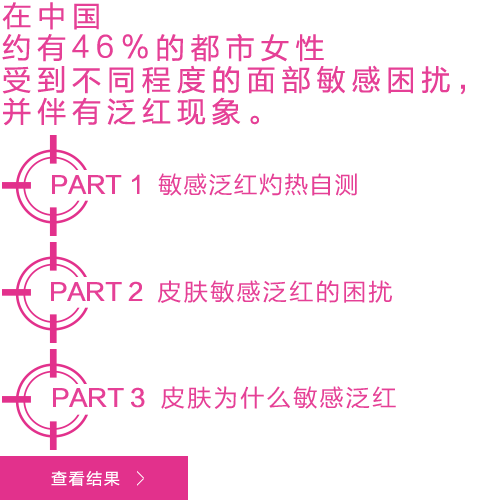
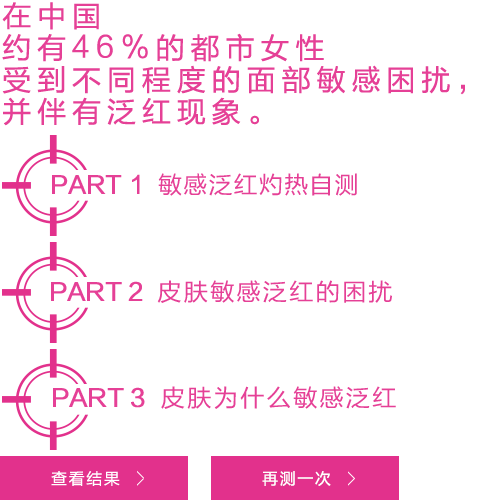
update

Changed region(s): [[0.4375, 0.9, 0.8438, 1.0]]

diff --git a/css/style.css b/css/style.css
@@ -69,6 +69,12 @@ a{text-decoration:none}
     .newsletter_popup img {margin-top:50px;}
     .newsletter_popup_close {cursor:pointer;background: url(../img/news_letter_close.png) no-repeat;width:38px;height:39px;position: absolute;top:-21px;right:-21px;}
 
+    #mobilenewsletter label.error {position: absolute;right:20px;top:135px;color:#f69f8c;font-size:30px;}
+    #MailInputWin{display:none;background:url(../imgMobile/maildialog.png);width:590px;height:382px;}
+    #mobilemailinput{ width: 480px; margin-top: 170px; margin-left: 55px; height: 65px; font-size: 32px;}
+    #backbtn{background:url(../imgMobile/backbtn.png) no-repeat;width:202px;height:65px;border:none;margin-top:34px;margin-left:76px;cursor:pointer;}
+    #okbtn{font-size:0;background:url(../imgMobile/okbtn.png) no-repeat;width:202px;height:65px;border:none;margin-top:34px;margin-left:30px;cursor:pointer;}
+
 /* intro */
 .intro{border-top:#fdeaf2 solid 1px;background: url(../img/introbg.png) repeat-x;height:122px; padding: 24px 0 0}
 .intro .column{width: 926px;}
@@ -134,10 +140,11 @@ a{text-decoration:none}
     .repair_imgtit{background:url('../img/repair_imgtit.png') no-repeat;position: absolute;}
     .repair_summary{width: 480px;height:130px;left:50%;top:30px;margin:0 0 0 -410px;background-position: 0 0;}
     .repair_pt1tit{width: 400px;height:102px;left:50%;top:212px;margin:0 0 0 -456px;background-position: 0 -135px;}
-    .repair_pt2tit{width: 400px;height:102px;left:50%;top:640px;margin:0 0 0 -456px;background-position: 0 -242px;}
-    .repair_pt3tit{width: 400px;height:102px;left:50%;top:1114px;margin:0 0 0 -456px;background-position: 0 -349px;}
+    .repair_pt2tit{width: 400px;height:102px;left:50%;top:740px;margin:0 0 0 -456px;background-position: 0 -242px;}
+    .repair_pt3tit{width: 400px;height:102px;left:50%;top:1214px;margin:0 0 0 -456px;background-position: 0 -349px;}
     /*pt1*/
     .repair_btn{font-size:0;cursor:pointer;width: 188px;height: 44px;top:534px;left:50%;margin-left: -94px;background-position: 0 -456px;border: none;overflow: hidden;line-height: 5000em;display: block}
+    .repair_btn.again {background-position:-211px -456px;}
     .repair_imgpt1{background:url('../img/repair_imgpt1.png') no-repeat;position: absolute;}
     .repair_pt1txt{width: 600px;height: 84px;top:296px;left:50%;margin-left: -456px;background-position:-8px 0;}
     .checkdiv{width: 912px;height: 120px;position: absolute;left:50%;margin-left:-456px;top:395px;}
@@ -154,20 +161,23 @@ a{text-decoration:none}
     .check_5 .checktxt{background-position: 0 -238px;height:34px;margin-top:-8px;}
     /*.check_6{top:88px;left:495px;}*/
     .check_6 .checktxt{background-position: 0 -275px;}
-    .repair_next{position:absolute;-webkit-animation: opacity1 1.5s infinite alternate;-moz-animation: opacity1 1.5s infinite alternate;-ms-animation: opacity1 1.5s infinite alternate;-o-animation: opacity1 1.5s infinite alternate;animation: opacity1 1.5s infinite alternate;width: 67px;height: 67px;left:50%;top: 600px;margin-left: -33px ;background:url(../img/knowledge_img2.png) no-repeat;background-position: -453px -504px}
+    .repair_next{position:absolute;-webkit-animation: opacity1 1.5s infinite alternate;-moz-animation: opacity1 1.5s infinite alternate;-ms-animation: opacity1 1.5s infinite alternate;-o-animation: opacity1 1.5s infinite alternate;animation: opacity1 1.5s infinite alternate;width: 67px;height: 67px;left:50%;top:650px;margin-left: -33px ;background:url(../img/knowledge_img2.png) no-repeat;background-position: -453px -504px}
+    .repair_answer {width:814px;height:113px;display:none;position: absolute;top:525px;left:50%;margin-left:-411px;background:url(../img/repair_imgpt4.png) no-repeat;}
+    .repair_answer div {display:none;}
+    .repair_answer2 {background-position: 0 -106px;}
     /*pt2*/
-    .repair_hua2{width: 160px;height: 200px;background: url(../img/repair_hua2.jpg) no-repeat;position: absolute;left:50%;top:760px;margin-left:-550px;}
+    .repair_hua2{width: 160px;height: 200px;background: url(../img/repair_hua2.jpg) no-repeat;position: absolute;left:50%;top:860px;margin-left:-550px;}
     .repair_imgpt2{background: url(../img/repair_imgpt2.png) no-repeat;position: absolute;}
-    .repair_user1{width: 300px;height:250px;left:50%;top:760px;margin:0 0 0 -484px;background-position: 0 0;}
-    .repair_user2{width: 300px;height:250px;left:50%;top:692px;margin:0 0 0 -258px;background-position: 0 -250px;}
-    .repair_user3{width: 300px;height:250px;left:50%;top:765px;margin:0 0 0 -45px;background-position: 0 -500px;}
-    .repair_user4{width: 300px;height:250px;left:50%;top:711px;margin:0 0 0 186px;background-position: 0 -750px;}
+    .repair_user1{width: 300px;height:250px;left:50%;top:860px;margin:0 0 0 -484px;background-position: 0 0;}
+    .repair_user2{width: 300px;height:250px;left:50%;top:792px;margin:0 0 0 -258px;background-position: 0 -250px;}
+    .repair_user3{width: 300px;height:250px;left:50%;top:865px;margin:0 0 0 -45px;background-position: 0 -500px;}
+    .repair_user4{width: 300px;height:250px;left:50%;top:811px;margin:0 0 0 186px;background-position: 0 -750px;}
     /*pt3*/
     .repair_imgpt3{background: url(../img/repair_imgpt3.png) no-repeat;position: absolute;}
-    .repair_specialist{width: 190px;height:245px;left:50%;top:1040px;margin:0 0 0 0;background-position: 0 0;}
-    .repair_demo{width: 260px;height:250px;left:50%;top:1030px;margin:0 0 0 190px;background-position: top right;}
-    .repair_threecause{width: 450px;height:240px;left:50%;top:1300px;margin:0 0 0 40px;background-position: 0 -250px;}
-    .repair_twocause{width: 400px;height:186px;left:50%;top:1306px;margin:0 0 0 -408px;background-position: 0 -508px;}
+    .repair_specialist{width: 190px;height:245px;left:50%;top:1140px;margin:0 0 0 0;background-position: 0 0;}
+    .repair_demo{width: 260px;height:250px;left:50%;top:1130px;margin:0 0 0 190px;background-position: top right;}
+    .repair_threecause{width: 450px;height:240px;left:50%;top:1400px;margin:0 0 0 40px;background-position: 0 -250px;}
+    .repair_twocause{width: 400px;height:186px;left:50%;top:1406px;margin:0 0 0 -408px;background-position: 0 -508px;}
 
 /* Repair Used
 ================================================================================================= */
@@ -426,7 +436,8 @@ a{text-decoration:none}
     .repair_summary{background:url('../imgMobile/repair/repair_summary.png') no-repeat 0 0;background-size: 100% 100%;width: 580px;height: 164px;top:35px;margin-left:-285px}
     .repair_pt1tit{top:230px;margin-left:-285px;background:url('../imgMobile/repair/repair_pt1tit.png') no-repeat 0 0;background-size: 100% 100%;width: 530px;height: 130px;}
     .repair_pt1txt{top:386px;margin-left:-285px;background:url('../imgMobile/repair/repair_pt1txt.png') no-repeat 0 0;background-size: 100% 100%;width: 551px;height: 118px;}
-    .repair_btn{width: 574px;height: 98px;top:976px;margin-left:-287px;background:url('../imgMobile/repair/repair_btn.png') no-repeat 0 0;background-size: 100% 100%;}
+    .repair_btn{width: 574px;height: 98px;top:976px;margin-left:-287px;background:url('../imgMobile/repair/repair_btn.png') no-repeat 0 0;background-size: 574px 196px;}
+    .repair_btn.again {background-position:0 -98px}
     .checkdiv{overflow:hidden;padding:58px 0 0;width: 635px;height: 374px;top:515px;margin-left:-317px;background:url('../imgMobile/repair/checkdiv.png') no-repeat 0 0;background-size: 100% 100%;}
     .check_item{padding-left:134px;height: 115px;margin-top: 10px}
     .check_item .checker {margin-top:10px;}
@@ -435,6 +446,10 @@ a{text-decoration:none}
     .arrow_tiem{width: 80px;height: 80px;position: absolute;top: 162px;cursor: pointer;}
     .arrow_p{left:10px;background:url('../imgMobile/repair/arrow_p.png') no-repeat 0 0;background-size: 100% 100%;}
     .arrow_n{right:10px;background:url('../imgMobile/repair/arrow_n.png') no-repeat 0 0;background-size: 100% 100%;}
+
+    .repair_answer {background:#fdf2eb;font-size:30px;padding:20px 30px;width:520px;height:auto;margin-left:-300px;line-height:150%;}
+    .repair_answer div {display:block;}
+    .repair_answer .score {color:#e54096;font-weight:bold;}
     /*pt2*/
     .repair_pt2tit{width:580px;height:135px;top:1140px;margin-left:-285px;background:url('../imgMobile/repair/repair_pt2tit.png') no-repeat 0 0;background-size: 100% 100%;}
     .repair_imgpt2{margin-left:-220px;box-shadow:5px 13px 30px -10px #555}

diff --git a/js/app.js b/js/app.js
@@ -91,7 +91,7 @@ $(document).ready(function(){
     }
 
 
-    if(!isTouch)
+    if(!isTouch || isIpad)
     {
         skrollr.init({
             smoothScrollingDuration: 600,
@@ -106,8 +106,8 @@ $(document).ready(function(){
             'closeEffect'	: 'fade',
             'openSpeed'      : 500,
             'closeSpeed'     : 500,
-            width: 640,
-            height: 360,
+            width: 800,
+            height: 450,
             scrolling : 'no',
             autoSize:true,
             preload   : true,
@@ -128,7 +128,7 @@ $(document).ready(function(){
         //$('.fadeEle').css({opacity:1});
     }
 
-    if(isTouch)
+    if(isTouch && !isIpad)
     {
         $('.fadeEle').waypoint(function() {
             $(this).animate({opacity:1});
@@ -152,7 +152,32 @@ $(document).ready(function(){
                 score += 10;
             }
         });
-        //alert(score);
+        if(isTouch && !isIpad)
+        {
+            if($('.checkdiv').css('display') == 'none')
+            {
+                $('.checkdiv').fadeIn();
+                $('.repair_answer').fadeOut();
+                $('.repair_btn').removeClass('again');
+                return;
+            }
+            $('.checkdiv').fadeOut();
+            $('.repair_btn').addClass('again');
+        }
+        else
+        {
+            $('.repair_btn').addClass('again').animate({top:651});
+            $('.repair_next').animate({top:700});
+            $('.repair_answer').fadeOut();
+        }
+        if(score <= 30)
+        {
+            $('.repair_answer1').fadeIn();
+        }
+        else
+        {
+            $('.repair_answer2').fadeIn();
+        }
     });
 
 

diff --git a/css/jquery.fancybox.css b/css/jquery.fancybox.css
@@ -39,13 +39,13 @@
 }
 
 .fancybox-opened .fancybox-skin {
-	-webkit-box-shadow: 0 10px 25px rgba(0, 0, 0, 0.5);
-	   -moz-box-shadow: 0 10px 25px rgba(0, 0, 0, 0.5);
-	        box-shadow: 0 10px 25px rgba(0, 0, 0, 0.5);
 }
 
 .fancybox-outer, .fancybox-inner {
 	position: relative;
+    -webkit-box-shadow: 0 0 10px #ecd9d9;
+    -moz-box-shadow: 0 0 10px #ecd9d9;
+    box-shadow: 0 0 10px #ecd9d9;
 }
 
 .fancybox-inner {

diff --git a/video.php b/video.php
@@ -11,11 +11,11 @@
 <script type="text/javascript" src="./js/swfobject.js"></script>
 <script src="./js/jquery-1.8.3.min.js"></script>
 
-<div id="video_popup_box" style="height:360px;overflow:hidden;">
-    <video style="display:none;" controls width="640" height="360">
+<div id="video_popup_box" style="height:450px;overflow:hidden;">
+    <video style="display:none;" controls width="800" height="450">
         <source src="videos/video<?php print $_GET['id'];?>.mp4" type="video/mp4" />
     </video>
-    <object classid='clsid:D27CDB6E-AE6D-11cf-96B8-444553540000' width='640' height='360' id='player1' name='player1'>
+    <object classid='clsid:D27CDB6E-AE6D-11cf-96B8-444553540000' width='800' height='450' id='player1' name='player1'>
         <param name='movie' value='videos/cwplayer.swf'>
         <param name='allowfullscreen' value='true'>
         <param name='allowscriptaccess' value='always'>
@@ -24,8 +24,8 @@
         <embed id='player1'
                name='player1'
                src='videos/cwplayer.swf'
-               width='640'
-               height='360'
+               width='800'
+               height='450'
                allowscriptaccess='always'
                allowfullscreen='true'
                wmode="transparent"

diff --git a/repair.php b/repair.php
@@ -56,6 +56,14 @@
             <p class="dis_mobile arrow_tiem arrow_n"></p>
         </div>
         <input class="repair_imgtit repair_btn" value="查看结果" type="submit" />
+        <div class="repair_answer repair_answer1">
+            <div class="score">0～30分  轻度敏感易泛红</div>
+            <div class="answer">皮肤处于敏感阶段，容易发生瞬间性泛红，如吃饭吃得太快，或是饮用了含酒精的饮料和较刺激性的调味料以及气候、情绪等因素都会导致脸颊、前额或整个面部的潮红，虽几分钟后恢复正常但仍不容忽视，凡此状况都属于敏感泛红的症状。</div>
+        </div>
+        <div class="repair_answer repair_answer2">
+            <div class="score">40～60分 中度敏感泛红</div>
+            <div class="answer">多由初始的瞬间性泛红转为持续性泛红或红斑。由于面部潮红的同时，面部血管也迅速膨胀，长时间反复就会形成持续性泛红，一般发生在面颊。</div>
+        </div>
     </from>
 
     <div class="repair_img2 repair_next"></div>

diff --git a/footer.php b/footer.php
@@ -44,7 +44,7 @@
                 <input id="mailinputbtn" class="mail_btn" type="submit" value="" />
             </form>
         </div>
-        <a class="ft_emailM dis_mobile" href="#" target="_blank">雅漾APP</a>
+        <a id="mobilemail" class="ft_emailM dis_mobile" href="#MailInputWin">立即订阅</a>
         <p class="ft_line ft_line4 dis_mobile"></p>
         <p class="ft_bor dis_mobile"></p>
     </div>
@@ -56,6 +56,15 @@
     <div class="state0"><img src="img/news_letter_success.png" /></div>
     <div class="state1"><img src="img/news_letter_registered.png" /></div>
     <div class="newsletter_popup_close"></div>
+</div>
+<div id="MailInputWin">
+    <form id="mobilenewsletter" action="newsletter.php" method="post">
+        <input id="mobilemailinput" name="email" type="text"  />
+        <div>
+            <input id="backbtn" type="button" value="" />
+            <input id="okbtn" type="submit" value="" />
+        </div>
+    </form>
 </div>
 
 <script src="js/jquery-1.8.3.min.js"></script>
